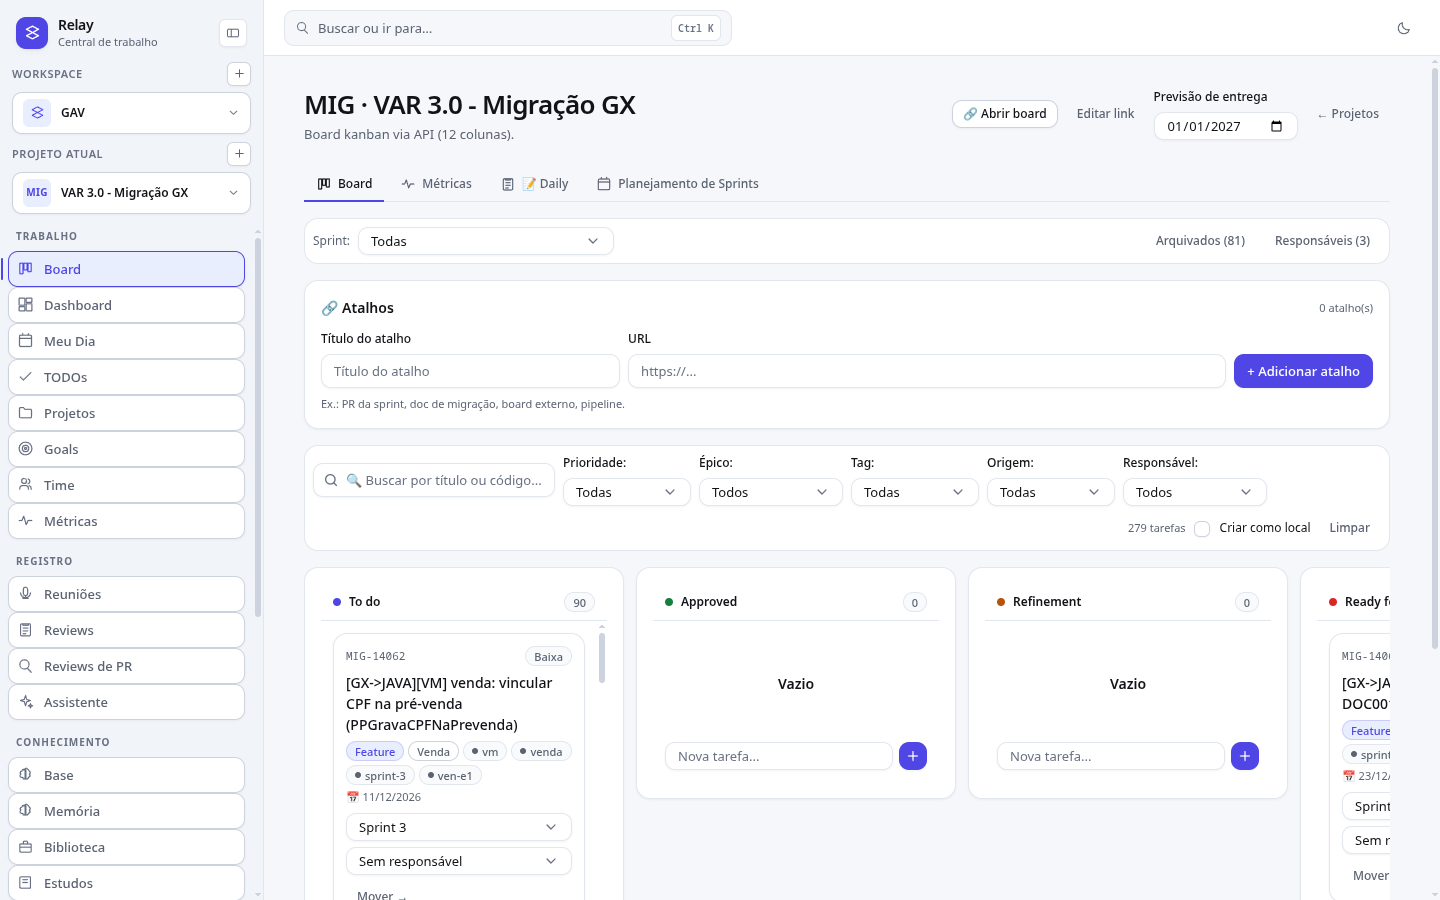
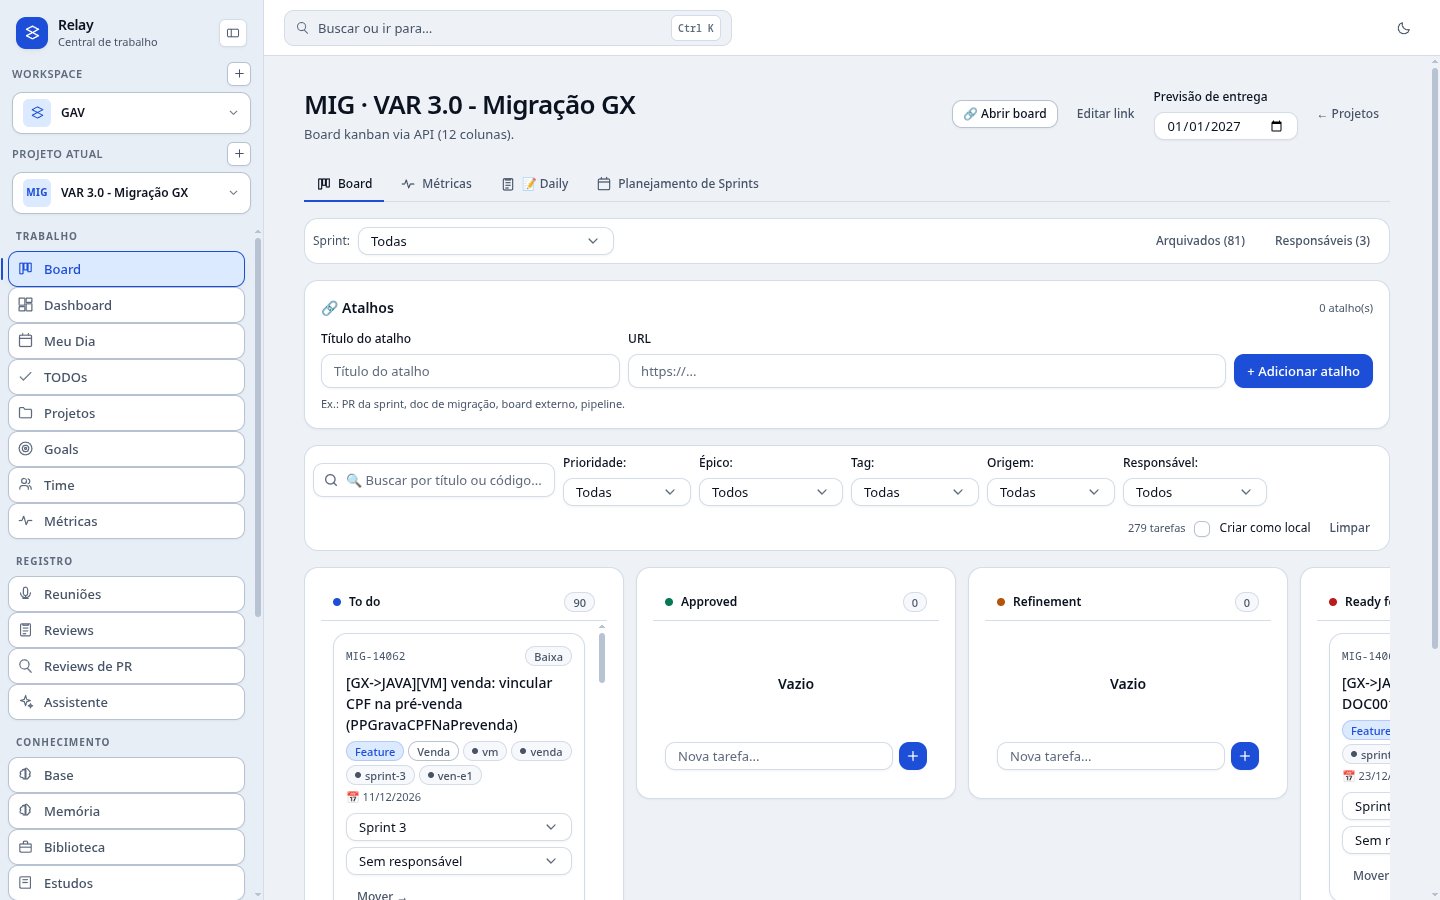
style(ui): trocar para paleta azul corporativa de alto contraste
- accent #1d4ed8, fundo #eef2f7, sidebar #e8eef6 e bordas mais fortes
- texto quase preto (#0b1220) e subtle #5f6b7d (AA: 4,81:1)
- tema escuro azul-slate coerente (accent #60a5fa)
- guia/plano/LEGENDAS atualizados e 5 prints recapturados

diff --git a/local-client/webui/src/styles/theme.css b/local-client/webui/src/styles/theme.css
@@ -8,35 +8,35 @@
 
 @theme {
   /* ---- marca ---- */
-  --color-accent: #4f46e5;
-  --color-accent-hover: #4338ca;
-  --color-accent-soft: #e9eeff;
-  --color-accent-soft-2: #dbe4ff;
+  --color-accent: #1d4ed8;
+  --color-accent-hover: #1e40af;
+  --color-accent-soft: #dbeafe;
+  --color-accent-soft-2: #bfdbfe;
   --color-accent-contrast: #ffffff;
 
   /* ---- superfícies ---- */
-  --color-bg: #f5f7fa;
+  --color-bg: #eef2f7;
   --color-surface: #ffffff;
-  --color-surface-2: #f8fafc;
+  --color-surface-2: #f6f8fb;
   --color-elevated: #ffffff;
-  --color-sidebar: #f1f4f9;
-  --color-column: #edf1f6;
+  --color-sidebar: #e8eef6;
+  --color-column: #e4ebf3;
 
   /* ---- traços ---- */
-  --color-border: #e2e6ed;
-  --color-border-strong: #cdd3de;
+  --color-border: #d3dce7;
+  --color-border-strong: #b7c3d2;
 
   /* ---- texto ---- */
-  --color-fg: #111317;
-  --color-fg-muted: #5b6373;
-  --color-fg-subtle: #697183;
+  --color-fg: #0b1220;
+  --color-fg-muted: #475467;
+  --color-fg-subtle: #5f6b7d;
 
   /* ---- semânticas ---- */
-  --color-success: #15803d;
-  --color-success-soft: #ecfdf3;
+  --color-success: #047857;
+  --color-success-soft: #ecfdf5;
   --color-warning: #b45309;
-  --color-warning-soft: #fff7e6;
-  --color-danger: #dc2626;
+  --color-warning-soft: #fffbeb;
+  --color-danger: #b91c1c;
   --color-danger-soft: #fef2f2;
 
   /* ---- tipografia (escala fechada) ---- */
@@ -81,32 +81,32 @@
 
 /* ---- tema escuro: sobrescreve só as variáveis de cor ---- */
 :where([data-theme='dark']) {
-  --color-accent: #8b8dfb;
-  --color-accent-hover: #9a9cff;
-  --color-accent-soft: #20223a;
-  --color-accent-soft-2: #282b48;
-  --color-accent-contrast: #12131a;
+  --color-accent: #60a5fa;
+  --color-accent-hover: #93c5fd;
+  --color-accent-soft: #172554;
+  --color-accent-soft-2: #1e3a8a;
+  --color-accent-contrast: #08111f;
 
-  --color-bg: #0e1015;
-  --color-surface: #171a22;
-  --color-surface-2: #14171f;
-  --color-elevated: #1b1f28;
-  --color-sidebar: #0f1117;
-  --color-column: #14171f;
+  --color-bg: #0b1220;
+  --color-surface: #111a2b;
+  --color-surface-2: #0f1726;
+  --color-elevated: #162033;
+  --color-sidebar: #090f1a;
+  --color-column: #0f1726;
 
-  --color-border: #262b36;
-  --color-border-strong: #343b49;
+  --color-border: #23324a;
+  --color-border-strong: #34455f;
 
-  --color-fg: #e9ebf1;
-  --color-fg-muted: #8b93a7;
-  --color-fg-subtle: #6f7789;
+  --color-fg: #e6edf7;
+  --color-fg-muted: #94a3b8;
+  --color-fg-subtle: #7a8699;
 
   --color-success: #34d399;
-  --color-success-soft: #10261d;
-  --color-warning: #f0b45c;
-  --color-warning-soft: #2a2113;
-  --color-danger: #f4776c;
-  --color-danger-soft: #2b1614;
+  --color-success-soft: #052e23;
+  --color-warning: #fbbf24;
+  --color-warning-soft: #2a2008;
+  --color-danger: #f87171;
+  --color-danger-soft: #2a1111;
 
   --shadow-xs: 0 1px 2px rgb(0 0 0 / 0.4);
   --shadow-sm: 0 1px 2px rgb(0 0 0 / 0.4), 0 6px 16px -10px rgb(0 0 0 / 0.5);

diff --git a/docs/ui-migration-guide.md b/docs/ui-migration-guide.md
@@ -148,21 +148,21 @@ Os valores vivem em `src/styles/theme.css`; páginas continuam sem hex.
 
 | Papel | Token | Valor |
 |---|---|---|
-| Marca | `--color-accent` | `#4f46e5` |
-| Marca hover | `--color-accent-hover` | `#4338ca` |
-| Marca suave | `--color-accent-soft` | `#e9eeff` |
-| Fundo | `--color-bg` | `#f5f7fa` |
+| Marca | `--color-accent` | `#1d4ed8` |
+| Marca hover | `--color-accent-hover` | `#1e40af` |
+| Marca suave | `--color-accent-soft` | `#dbeafe` |
+| Fundo | `--color-bg` | `#eef2f7` |
 | Superfície | `--color-surface` | `#ffffff` |
-| Sidebar | `--color-sidebar` | `#f1f4f9` |
-| Coluna do board | `--color-column` | `#edf1f6` |
-| Borda | `--color-border` | `#e2e6ed` |
-| Borda forte | `--color-border-strong` | `#cdd3de` |
-| Texto | `--color-fg` | `#111317` |
-| Texto muted | `--color-fg-muted` | `#5b6373` |
-| Texto subtle | `--color-fg-subtle` | `#697183` |
-| Sucesso | `--color-success` | `#15803d` |
+| Sidebar | `--color-sidebar` | `#e8eef6` |
+| Coluna do board | `--color-column` | `#e4ebf3` |
+| Borda | `--color-border` | `#d3dce7` |
+| Borda forte | `--color-border-strong` | `#b7c3d2` |
+| Texto | `--color-fg` | `#0b1220` |
+| Texto muted | `--color-fg-muted` | `#475467` |
+| Texto subtle | `--color-fg-subtle` | `#5f6b7d` |
+| Sucesso | `--color-success` | `#047857` |
 | Atenção | `--color-warning` | `#b45309` |
-| Perigo | `--color-danger` | `#dc2626` |
+| Perigo | `--color-danger` | `#b91c1c` |
 
 O tema escuro é definido no bloco `:where([data-theme='dark'])` do mesmo arquivo.
 Ao mudar a paleta, rode `npm run build`, `./electron/sync-webui.sh`, recapture os

diff --git a/docs/ui-rebuild-plan.md b/docs/ui-rebuild-plan.md
@@ -220,9 +220,9 @@ Depois da entrega inicial, quatro ajustes fecharam a experiência do Electron:
   “Registro” fica com Reuniões/Reviews/Reviews de PR/Assistente; “Conhecimento”
   começa por Base/Memória/Biblioteca/Estudos. Cada item virou botão com borda
   (`border-strong`), fundo de superfície e hover/ativo em accent.
-- **Paleta clara:** accent indigo `#4f46e5`, sidebar `#f1f4f9`, fundo `#f5f7fa`,
-  bordas `#e2e6ed`/`#cdd3de` e texto subtle `#697183` (contraste AA). O tema
-  escuro foi preservado.
+- **Paleta clara:** azul corporativo `#1d4ed8`, sidebar `#e8eef6`, fundo `#eef2f7`,
+  bordas `#d3dce7`/`#b7c3d2` e texto subtle `#5f6b7d` (contraste AA; mínimo
+  4,81:1). O tema escuro ganhou o equivalente azul-slate (`#60a5fa`).
 - **Board mais leve:** colunas renderizam 20 cards e liberam o restante em
   “Mostrar mais”. Medição no pacote final: **104 cards / 212 selects / ~4 mil nós**
   na entrada (antes: 279/564/9,5 mil). O Electron também recupera renderer

diff --git a/README.md b/README.md
@@ -327,7 +327,7 @@ A API roda em `http://127.0.0.1:9777/api` sem autenticação. Endpoints principa
 
 ## Capturas de tela
 
-Capturas reais do app Electron (shell + web UI), 1440×900, tema claro, projeto MIG (VAR 3.0), em **26/11/2026** — design system v2, menu com Board primeiro, itens com borda e paleta indigo/slate:
+Capturas reais do app Electron (shell + web UI), 1440×900, tema claro, projeto MIG (VAR 3.0), em **26/11/2026** — design system v2, menu com Board primeiro, itens com borda e paleta azul corporativa de alto contraste:
 
 ![Dashboard](docs/prints/dashboard.png)
 ![Board kanban](docs/prints/board.png)

diff --git a/README.en.md b/README.en.md
@@ -341,7 +341,7 @@ The API runs at `http://127.0.0.1:9777/api` without authentication. Main endpoin
 
 ## Screenshots
 
-Real Electron app screenshots (shell + web UI), 1440×900, light theme, MIG project, captured on **26/11/2026** — design system v2, Board first in the menu, bordered items, indigo/slate palette:
+Real Electron app screenshots (shell + web UI), 1440×900, light theme, MIG project, captured on **26/11/2026** — design system v2, Board first in the menu, bordered items, high-contrast corporate blue palette:
 
 ![Dashboard](docs/prints/dashboard.png)
 ![Board kanban](docs/prints/board.png)

diff --git a/docs/prints/README.md b/docs/prints/README.md
@@ -11,7 +11,7 @@ representam mais a UI principal.
   (1440×900, tema claro, projeto MIG) e já são usados em `README.md` e
   `README.en.md`.
 - A captura reflete o design system v2: menu com **Board primeiro**, itens com
-  borda, paleta clara em indigo/slate e contraste AA.
+  borda, paleta azul corporativa de alto contraste.
 - O Electron limpa o cache da UI a cada boot; se uma janela antiga continuar
   aberta, feche pela bandeja (**Sair**) e abra de novo antes de capturar.
 
